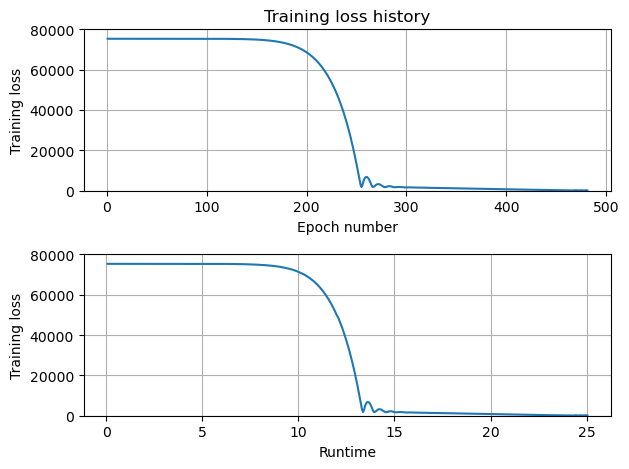
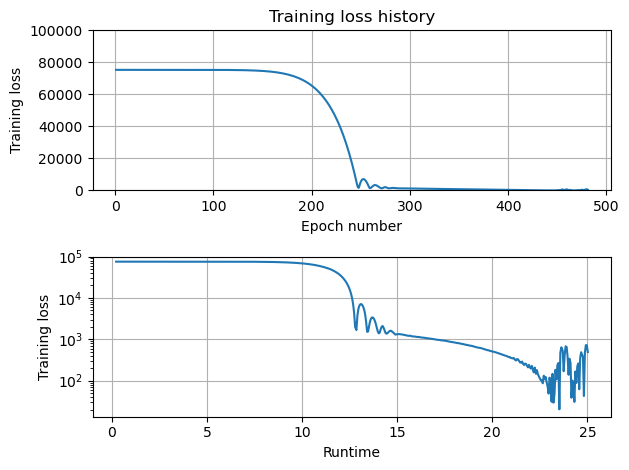
PDF plots of runtime and epoch loss history for the 2 approaches taken. Plots suggest that combining all losses is better than splitting them per batch.

Changed region(s): [[0.0, 0.0, 0.9968, 0.5075], [0.0, 0.5373, 0.9666, 0.9552], [0.5135, 0.9552, 0.6041, 0.9851]]

diff --git a/Iss_FYP/PINN_Linear/PINN_NN_Linear.py b/Iss_FYP/PINN_Linear/PINN_NN_Linear.py
@@ -207,22 +207,22 @@ fig1.grid()
 fig1.set_ylabel('Training loss')
 fig1.set_xlabel('Epoch number')
 fig1.set_title('Training loss history')
-fig1.set_ylim((0,8e4))
+fig1.set_ylim((0,1e5))
 
 # Loss vs Runtime subplot
 fig2 = fig.add_subplot(2,1,2)
-fig2.plot(epoch_time_list, epoch_loss_list)
+fig2.semilogy(epoch_time_list, epoch_loss_list)
 fig2.grid()
 fig2.set_ylabel('Training loss')
 fig2.set_xlabel('Runtime')
-fig2.set_ylim((0,8e4))
+fig2.set_ylim((0,1e5))
 plt.tight_layout()
 
 
 
 
 #%%########################################################################################################
-# Getting output for last batch only (last time step)
+# Extracting output stress for batch 10
 
 '''    
     
@@ -262,3 +262,10 @@ np.savetxt(csv_file_path, numpy_array, delimiter=',')
 
 #loss = model.evaluate(inputs, inputs, verbose=0)
 '''
+
+
+
+
+#%%########################################################################################################
+# Extracting FEA stress output
+
